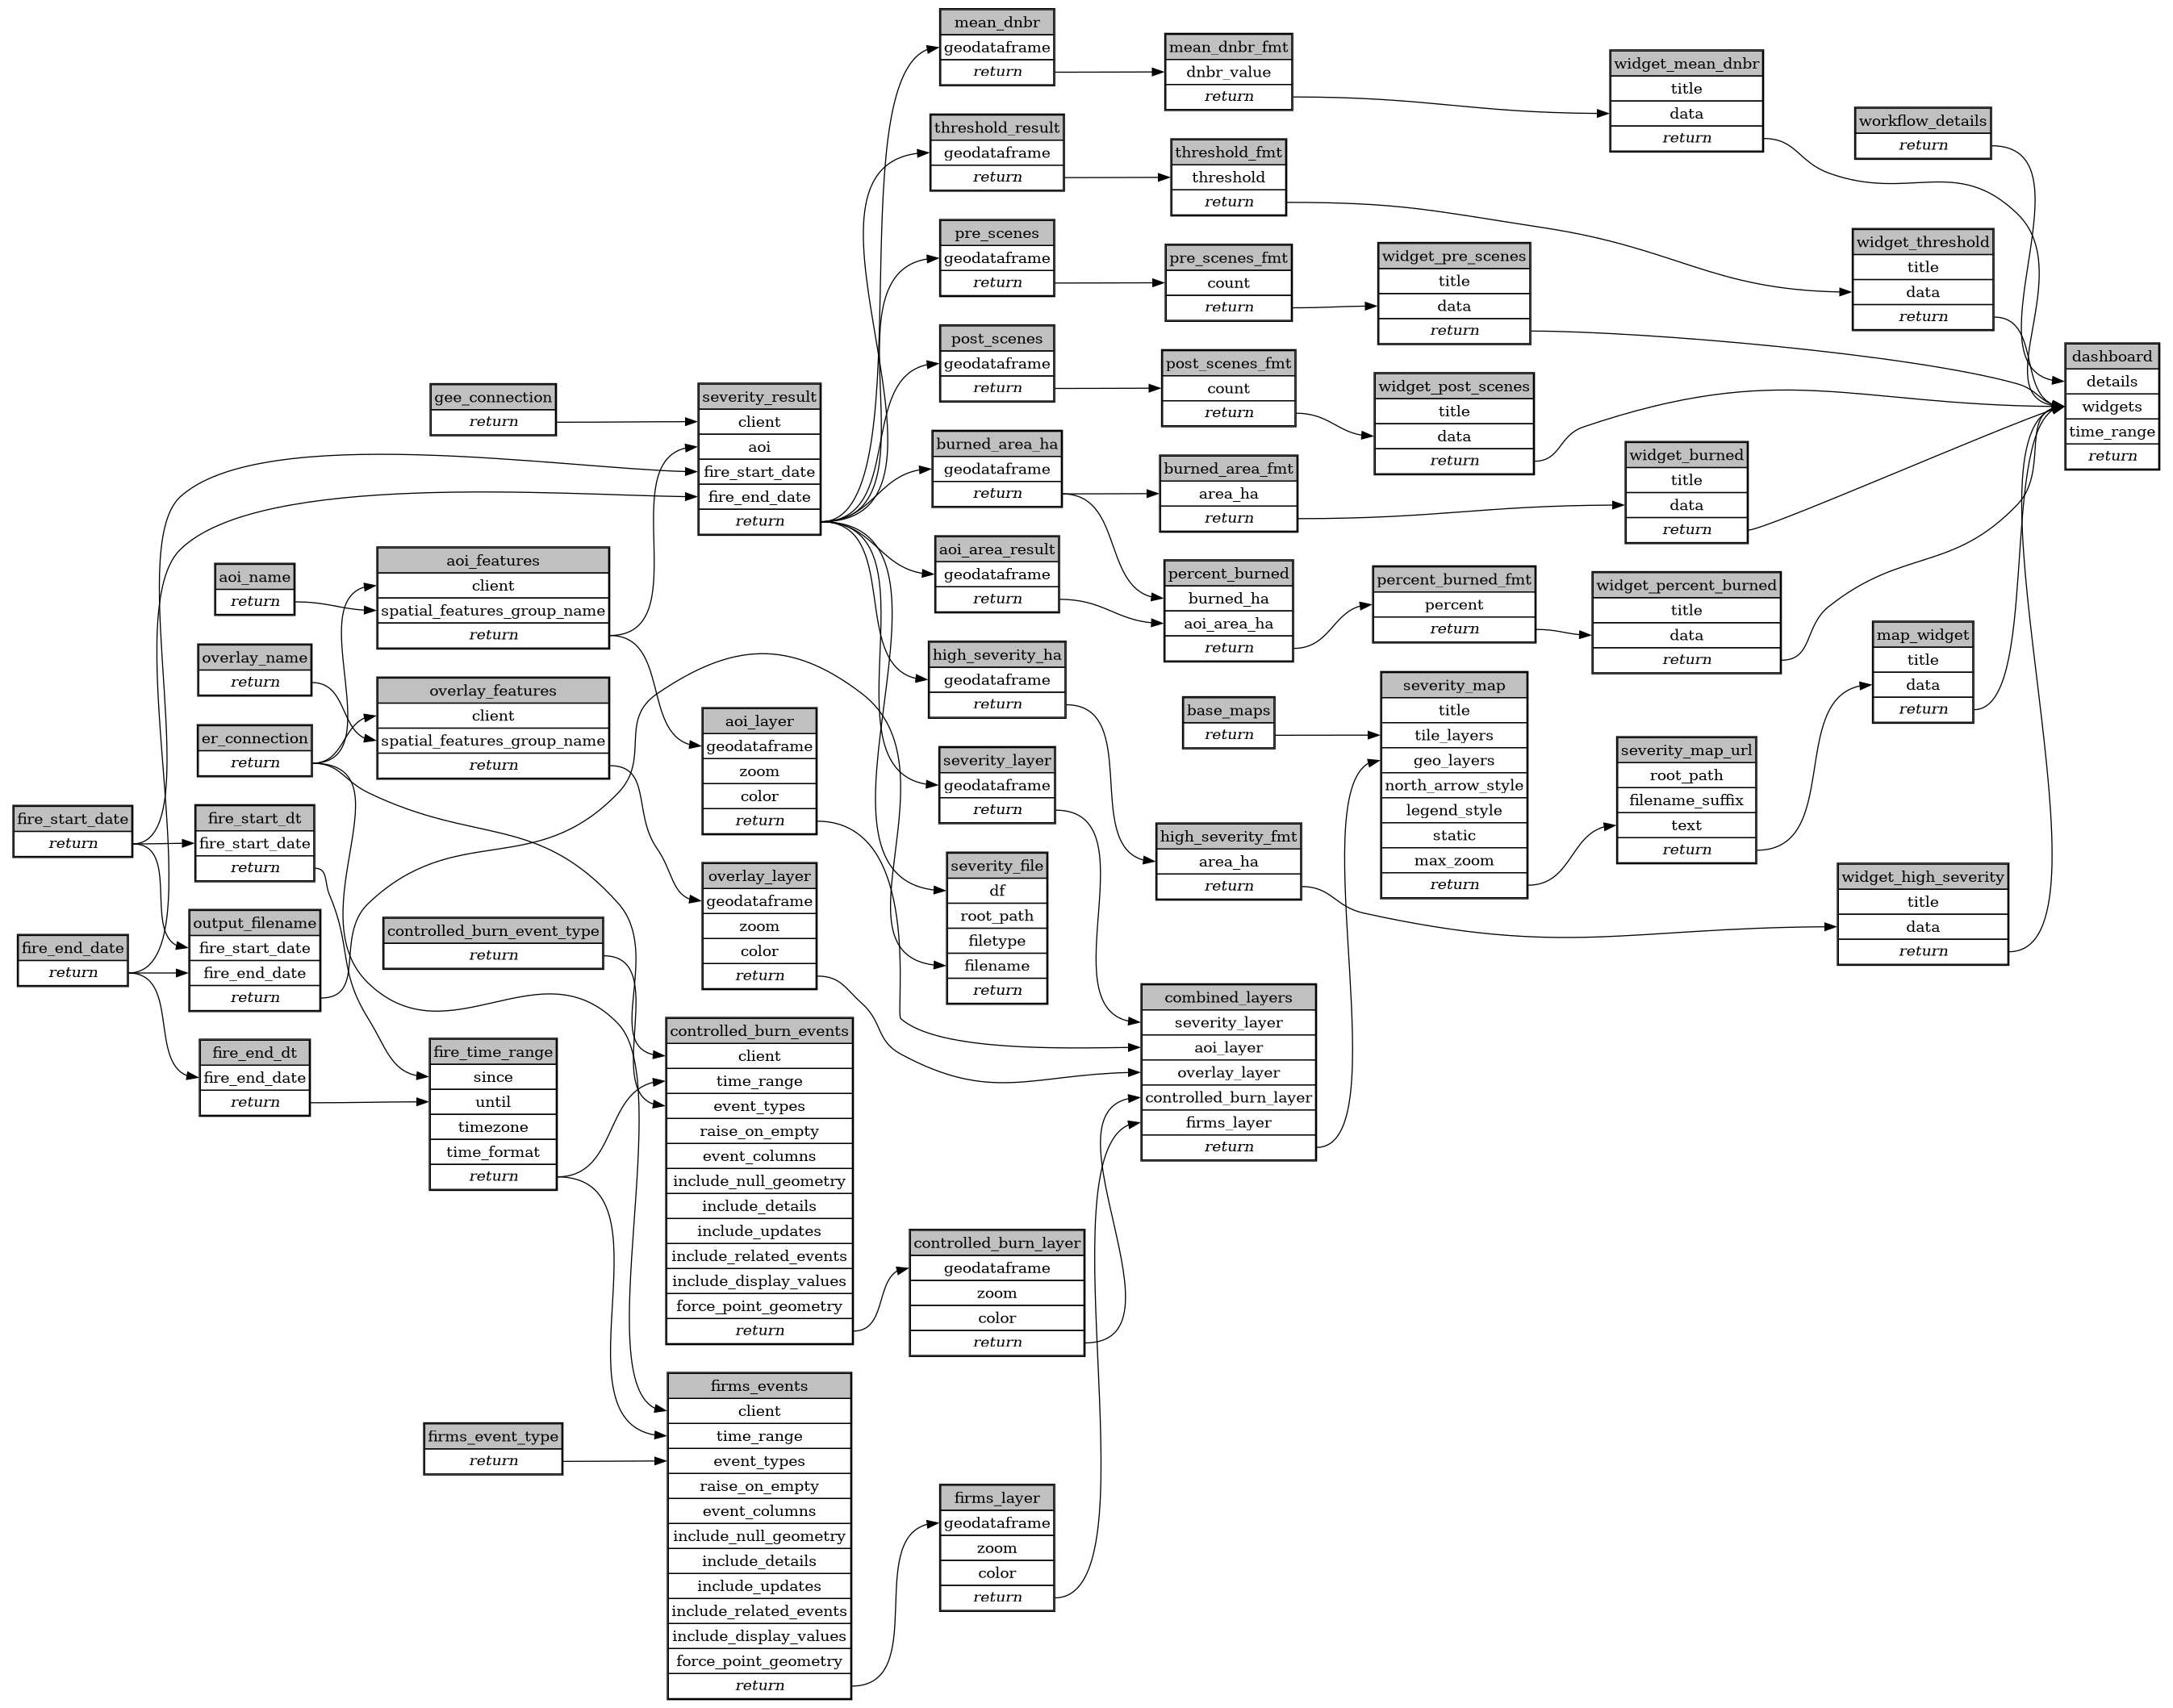
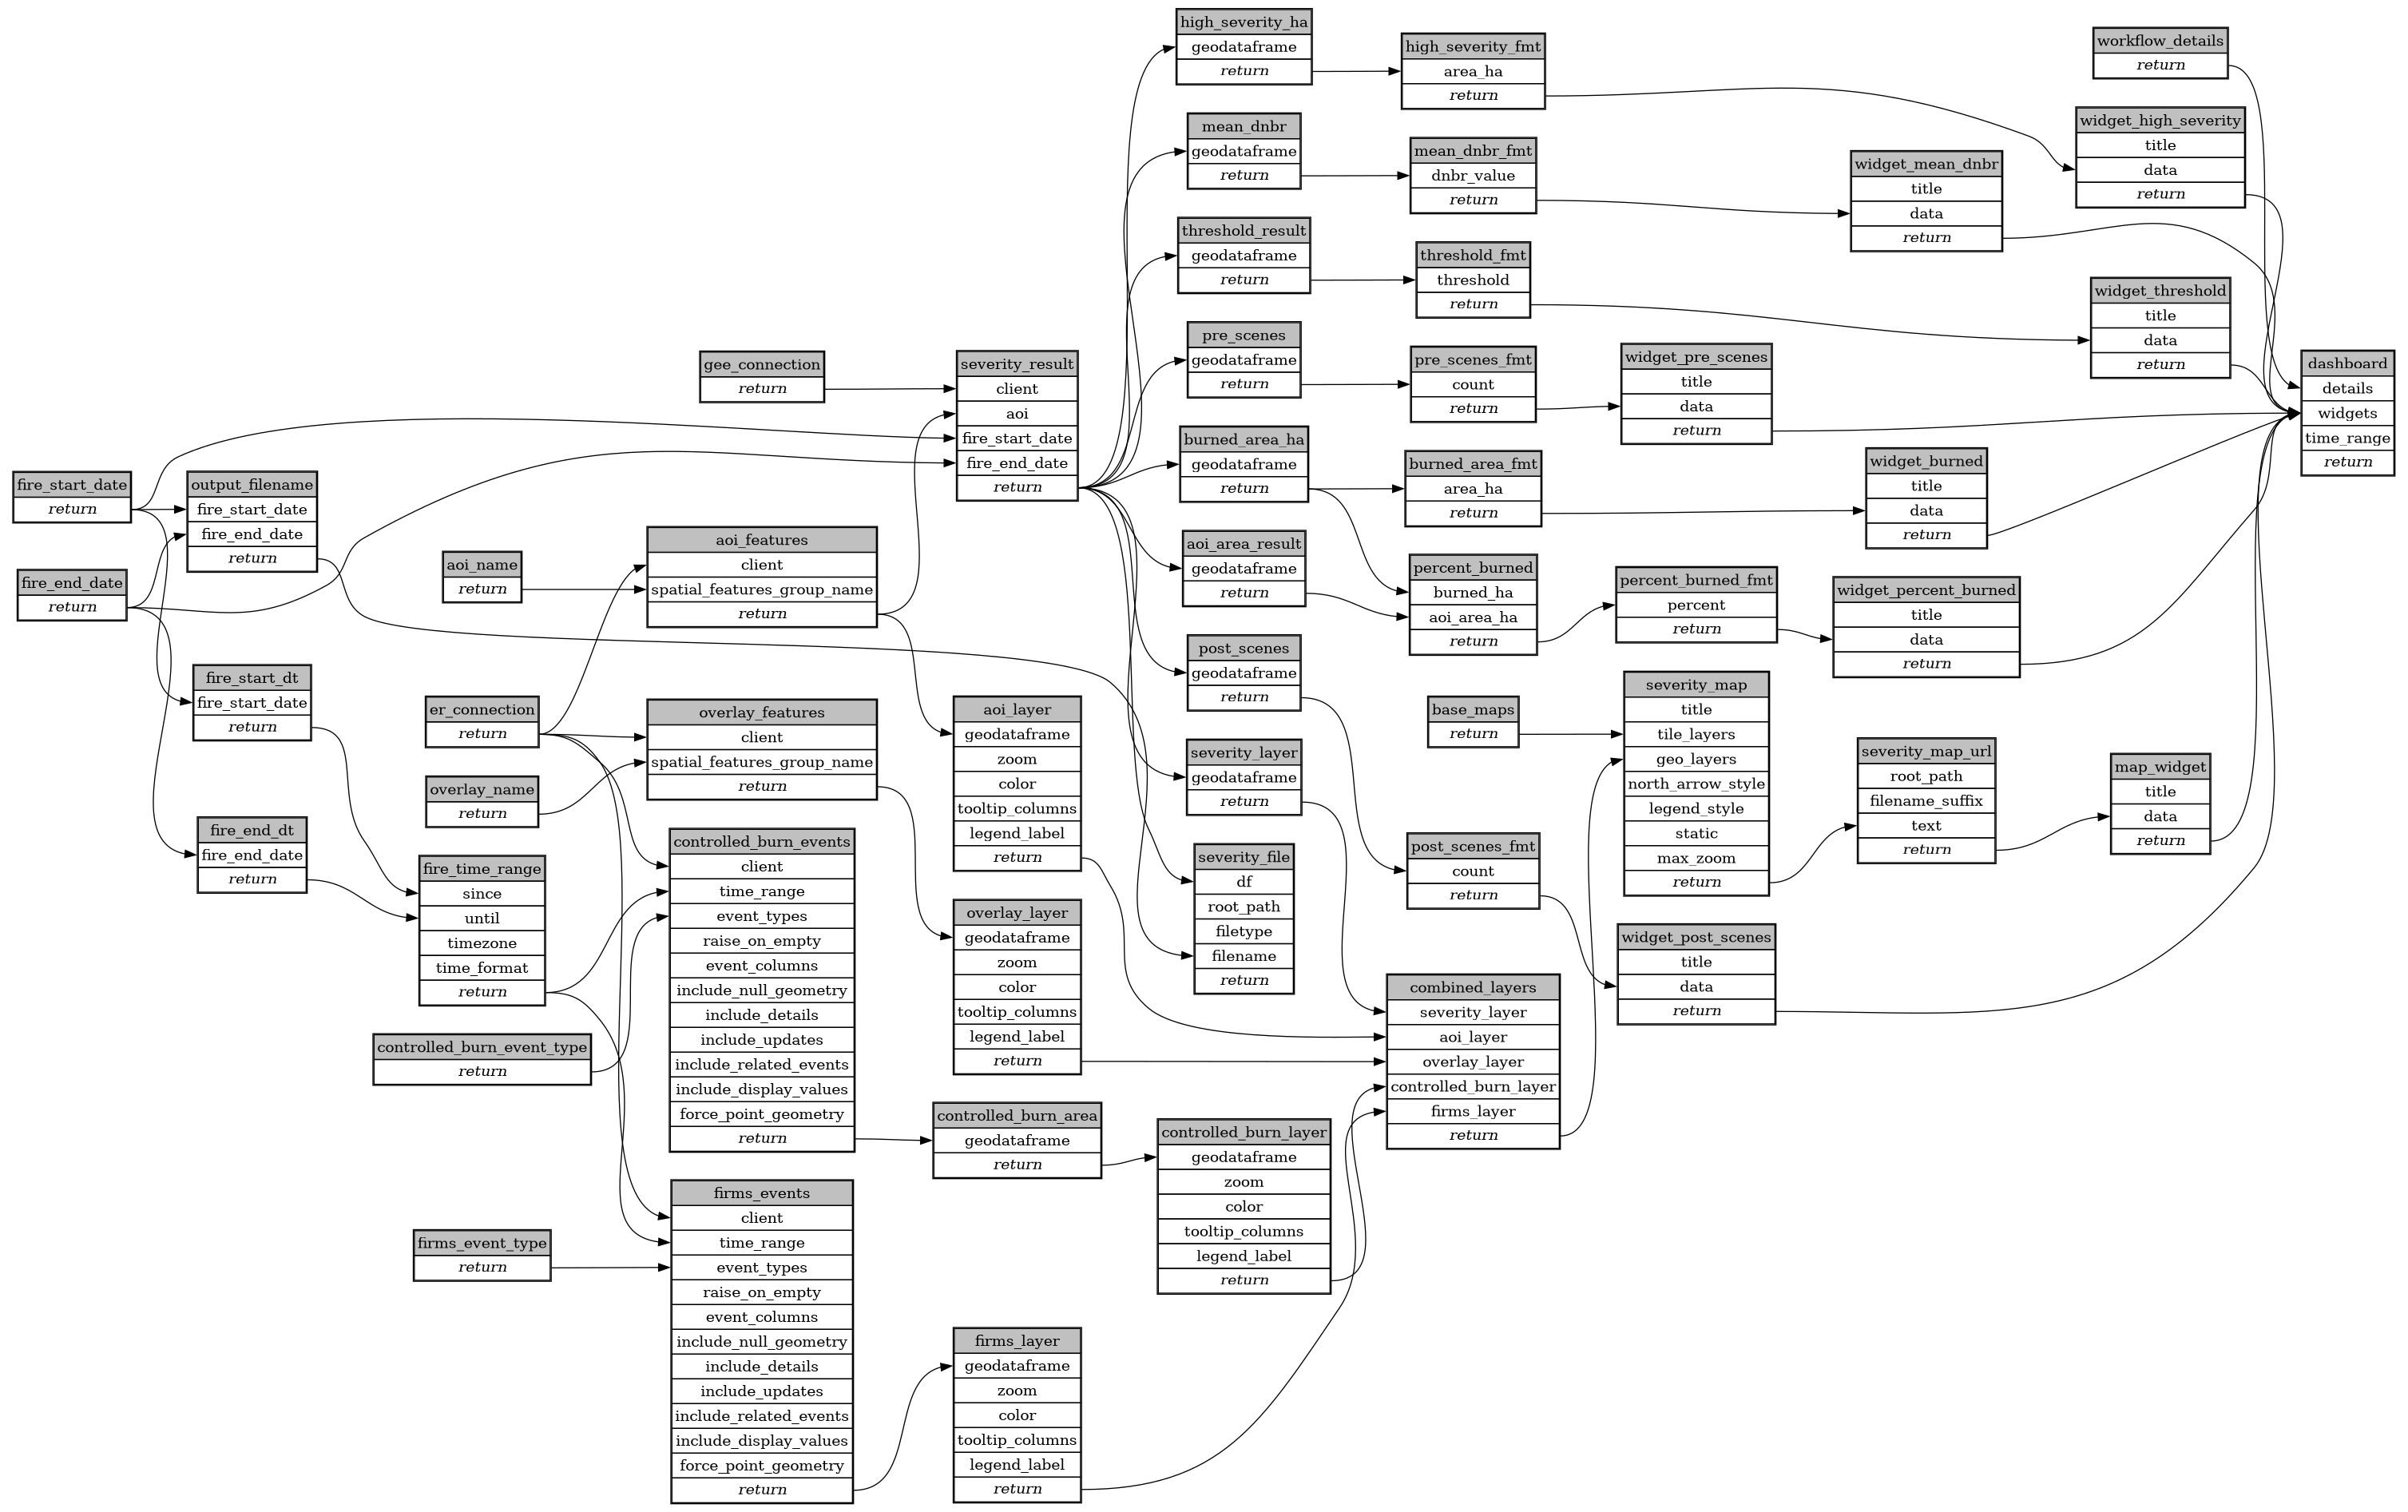
Add tooltips + shared legend for ER overlays; fix AOI/overlay colour clash; hectares everywhere (v3.1.0)
Controlled Burn and FIRMS layers now show title/time (and area_ha for the
burn polygons) on hover, and get a swatch in the same shared legend as the
severity classes. AOI boundary and the free-text overlay were both orange
(#FF8C00) and indistinguishable on the map; AOI is now black.

format_area_ha no longer switches to km²/m² by magnitude - every area on
the dashboard and in tooltips is hectares, consistently rounded.

Changed region(s): [[0.0, 0.0, 0.9358, 0.9974], [0.7174, 0.0, 0.9981, 0.3117]]

diff --git a/ecoscope-workflows-dnbr-burn-severity-workflow/dnbr-severity-tasks/dnbr_severity_tasks/__init__.py b/ecoscope-workflows-dnbr-burn-severity-workflow/dnbr-severity-tasks/dnbr_severity_tasks/__init__.py
@@ -557,7 +557,7 @@ def compute_dnbr_severity(
     gdf["DELTA_MIRBI"] = gdf["DELTA_MIRBI"].fillna(0.0)
     gdf["confidence"] = gdf["DELTA_MIRBI"].apply(lambda v: "confirmed" if v > 0 else "probable")
 
-    gdf["area_ha"] = gdf.to_crs(gdf.estimate_utm_crs()).geometry.area / 10_000.0
+    gdf["area_ha"] = (gdf.to_crs(gdf.estimate_utm_crs()).geometry.area / 10_000.0).round(1)
 
     # Run metadata (stored per row so stat tasks can read it back).
     gdf["satellite"]        = satellite
@@ -623,15 +623,26 @@ def create_styled_overlay_layer(
         str,
         Field(default="#FF8C00", description="Hex colour for this layer's lines/outlines/points."),
     ] = "#FF8C00",
+    tooltip_columns: Annotated[
+        list[str],
+        Field(default=[], description="Columns to show in the map tooltip when hovering a feature."),
+    ] = [],
+    legend_label: Annotated[
+        str | None,
+        Field(default=None, description="If set, adds a single-colour legend entry with this label."),
+    ] = None,
 ) -> Any:
     """
     Overlay layer for ER spatial features (AOI boundary, roads, fencelines, etc.) or
     ER events (controlled burns, FIRMS detections).
 
-    Splits by geometry type so lonboard never receives mixed types.
+    Splits by geometry type so lonboard never receives mixed types. The legend entry
+    (if any) is attached to only the first non-empty sub-layer, so a mixed-geometry
+    input still produces one legend swatch, not one per geometry type.
     """
     from ecoscope.platform.tasks.results._ecomap import (
         LayerDefinition,
+        LegendDefinition,
         PointLayerStyle,
         PolygonLayerStyle,
         PolylineLayerStyle,
@@ -641,14 +652,24 @@ def create_styled_overlay_layer(
     geom_col = gdf.geometry.geom_type
     width = 2.0
     layers = []
+    legend = LegendDefinition(labels=[legend_label], colors=[color]) if legend_label else None
+
+    def _next_legend():
+        # Attach the legend to only the first sub-layer that gets built.
+        nonlocal legend
+        out, legend = legend, None
+        return out
+
+    def _cols(g):
+        return [c for c in tooltip_columns if c in g.columns]
 
     line_gdf = gdf[geom_col.isin({"LineString", "MultiLineString"})].copy()
     if not line_gdf.empty:
         layers.append(LayerDefinition(
             geodataframe=line_gdf,
             layer_style=PolylineLayerStyle(get_color=color, get_width=width, width_units="pixels", cap_rounded=True),
-            legend=None,
-            tooltip_columns=[],
+            legend=_next_legend(),
+            tooltip_columns=_cols(line_gdf),
             zoom=zoom,
         ))
 
@@ -660,8 +681,8 @@ def create_styled_overlay_layer(
                 filled=False, stroked=True,
                 get_line_color=color, get_line_width=width, line_width_units="pixels",
             ),
-            legend=None,
-            tooltip_columns=[],
+            legend=_next_legend(),
+            tooltip_columns=_cols(polygon_gdf),
             zoom=zoom,
         ))
 
@@ -670,12 +691,32 @@ def create_styled_overlay_layer(
         layers.append(LayerDefinition(
             geodataframe=point_gdf,
             layer_style=PointLayerStyle(get_fill_color=color, get_radius=5, radius_units="pixels"),
-            legend=None,
-            tooltip_columns=[],
+            legend=_next_legend(),
+            tooltip_columns=_cols(point_gdf),
             zoom=zoom,
         ))
 
     return layers
+
+
+@register(tags=["fire", "overlay"])
+def add_polygon_area_ha(geodataframe: _GDF) -> _GDF:
+    """
+    Add an `area_ha` column (rounded to 1 decimal) for polygon/multipolygon rows —
+    e.g. the footprint of a recorded controlled burn. Non-polygon rows (points, lines)
+    get NaN; area is not a meaningful concept for a point detection.
+    """
+    gdf = geodataframe.copy()
+    if gdf.empty:
+        gdf["area_ha"] = []
+        return gdf
+    gdf["area_ha"] = np.nan
+    is_poly = gdf.geometry.geom_type.isin({"Polygon", "MultiPolygon"})
+    if is_poly.any():
+        poly_gdf = gdf.loc[is_poly]
+        utm = poly_gdf.to_crs(poly_gdf.estimate_utm_crs())
+        gdf.loc[is_poly, "area_ha"] = (utm.geometry.area / 10_000.0).round(1).values
+    return gdf
 
 
 @register(tags=["fire"])
@@ -822,12 +863,11 @@ def format_dnbr_threshold(
 def format_area_ha(
     area_ha: Annotated[float, Field(description="Area in hectares to format for display.")],
 ) -> str:
-    """Format an area value as a human-readable string (m², ha, or km²)."""
+    """Format an area value for display — always hectares, never km²/m², so every
+    area shown on the dashboard uses one consistent unit."""
     if area_ha <= 0:
         return "0 ha"
-    elif area_ha >= 10_000:
-        return f"{area_ha / 10_000:.1f} km²"
-    elif area_ha >= 1:
+    elif area_ha >= 100:
         return f"{int(round(area_ha)):,} ha"
     else:
-        return f"{int(round(area_ha * 10_000)):,} m²"
+        return f"{area_ha:.1f} ha"

diff --git a/ecoscope-workflows-dnbr-burn-severity-workflow/ecoscope_workflows_dnbr_burn_severity_workflow/dags/run_sequential.py b/ecoscope-workflows-dnbr-burn-severity-workflow/ecoscope_workflows_dnbr_burn_severity_workflow/dags/run_sequential.py
@@ -2,6 +2,7 @@
 import os
 from typing import Any
 
+from dnbr_severity_tasks import add_polygon_area_ha as add_polygon_area_ha
 from dnbr_severity_tasks import combine_severity_layers as combine_severity_layers
 from dnbr_severity_tasks import compute_dnbr_severity as compute_dnbr_severity
 from dnbr_severity_tasks import count_burned_area_ha as count_burned_area_ha
@@ -351,6 +352,26 @@ def main(params: dict[str, Any], validate_params_schema: bool = True):
         .call()
     )
 
+    controlled_burn_area = (
+        task(add_polygon_area_ha)
+        .validate()
+        .set_task_instance_id("controlled_burn_area")
+        .handle_errors()
+        .with_tracing()
+        .skipif(
+            conditions=[
+                any_dependency_skipped,
+                any_is_empty_df,
+            ],
+            unpack_depth=1,
+        )
+        .partial(
+            geodataframe=controlled_burn_events,
+            **(params.get("controlled_burn_area") or {}),
+        )
+        .call()
+    )
+
     controlled_burn_layer = (
         task(create_styled_overlay_layer)
         .validate()
@@ -365,9 +386,11 @@ def main(params: dict[str, Any], validate_params_schema: bool = True):
             unpack_depth=1,
         )
         .partial(
-            geodataframe=controlled_burn_events,
+            geodataframe=controlled_burn_area,
             zoom=False,
             color="#1E90FF",
+            tooltip_columns=["title", "time", "area_ha"],
+            legend_label="Controlled Burn",
             **(params.get("controlled_burn_layer") or {}),
         )
         .call()
@@ -436,6 +459,8 @@ def main(params: dict[str, Any], validate_params_schema: bool = True):
             geodataframe=firms_events,
             zoom=False,
             color="#FF00FF",
+            tooltip_columns=["title", "time"],
+            legend_label="FIRMS Detection",
             **(params.get("firms_layer") or {}),
         )
         .call()
@@ -497,7 +522,9 @@ def main(params: dict[str, Any], validate_params_schema: bool = True):
         .partial(
             geodataframe=aoi_features,
             zoom=True,
-            color="#FF8C00",
+            color="#000000",
+            tooltip_columns=[],
+            legend_label=None,
             **(params.get("aoi_layer") or {}),
         )
         .call()
@@ -520,6 +547,8 @@ def main(params: dict[str, Any], validate_params_schema: bool = True):
             geodataframe=overlay_features,
             zoom=False,
             color="#FF8C00",
+            tooltip_columns=[],
+            legend_label=None,
             **(params.get("overlay_layer") or {}),
         )
         .call()
@@ -566,7 +595,7 @@ def main(params: dict[str, Any], validate_params_schema: bool = True):
             tile_layers=base_maps,
             geo_layers=combined_layers,
             north_arrow_style={"placement": "top-left"},
-            legend_style={"title": "Burn Severity", "placement": "bottom-right"},
+            legend_style={"title": "Legend", "placement": "bottom-right"},
             static=False,
             max_zoom=20,
             **(params.get("severity_map") or {}),

diff --git a/ecoscope-workflows-dnbr-burn-severity-workflow/ecoscope_workflows_dnbr_burn_severity_workflow/dags/run_sequential_mock_io.py b/ecoscope-workflows-dnbr-burn-severity-workflow/ecoscope_workflows_dnbr_burn_severity_workflow/dags/run_sequential_mock_io.py
@@ -52,6 +52,7 @@ get_events = create_func_magicmock(  # 🧪
     anchor="ecoscope.platform.tasks.io",  # 🧪
     func_name="get_events",  # 🧪
 )  # 🧪
+from dnbr_severity_tasks import add_polygon_area_ha as add_polygon_area_ha
 from dnbr_severity_tasks import (
     create_styled_overlay_layer as create_styled_overlay_layer,
 )
@@ -379,6 +380,26 @@ def main(params: dict[str, Any], validate_params_schema: bool = True):
         .call()
     )
 
+    controlled_burn_area = (
+        task(add_polygon_area_ha)
+        .validate()
+        .set_task_instance_id("controlled_burn_area")
+        .handle_errors()
+        .with_tracing()
+        .skipif(
+            conditions=[
+                any_dependency_skipped,
+                any_is_empty_df,
+            ],
+            unpack_depth=1,
+        )
+        .partial(
+            geodataframe=controlled_burn_events,
+            **(params.get("controlled_burn_area") or {}),
+        )
+        .call()
+    )
+
     controlled_burn_layer = (
         task(create_styled_overlay_layer)
         .validate()
@@ -393,9 +414,11 @@ def main(params: dict[str, Any], validate_params_schema: bool = True):
             unpack_depth=1,
         )
         .partial(
-            geodataframe=controlled_burn_events,
+            geodataframe=controlled_burn_area,
             zoom=False,
             color="#1E90FF",
+            tooltip_columns=["title", "time", "area_ha"],
+            legend_label="Controlled Burn",
             **(params.get("controlled_burn_layer") or {}),
         )
         .call()
@@ -464,6 +487,8 @@ def main(params: dict[str, Any], validate_params_schema: bool = True):
             geodataframe=firms_events,
             zoom=False,
             color="#FF00FF",
+            tooltip_columns=["title", "time"],
+            legend_label="FIRMS Detection",
             **(params.get("firms_layer") or {}),
         )
         .call()
@@ -525,7 +550,9 @@ def main(params: dict[str, Any], validate_params_schema: bool = True):
         .partial(
             geodataframe=aoi_features,
             zoom=True,
-            color="#FF8C00",
+            color="#000000",
+            tooltip_columns=[],
+            legend_label=None,
             **(params.get("aoi_layer") or {}),
         )
         .call()
@@ -548,6 +575,8 @@ def main(params: dict[str, Any], validate_params_schema: bool = True):
             geodataframe=overlay_features,
             zoom=False,
             color="#FF8C00",
+            tooltip_columns=[],
+            legend_label=None,
             **(params.get("overlay_layer") or {}),
         )
         .call()
@@ -594,7 +623,7 @@ def main(params: dict[str, Any], validate_params_schema: bool = True):
             tile_layers=base_maps,
             geo_layers=combined_layers,
             north_arrow_style={"placement": "top-left"},
-            legend_style={"title": "Burn Severity", "placement": "bottom-right"},
+            legend_style={"title": "Legend", "placement": "bottom-right"},
             static=False,
             max_zoom=20,
             **(params.get("severity_map") or {}),

diff --git a/CLAUDE.md b/CLAUDE.md
@@ -75,6 +75,38 @@ also accepts optional `controlled_burn_layer`/`firms_layer`) →
 stat chain: burned_area → high_severity → (aoi_area → percent_burned) → threshold → mean_dnbr → pre_scenes → post_scenes →
 `gather_dashboard` (`time_range: ~`).
 
+### Tooltips, legend, area, and consistent hectares — v3.1.0, added 2026-07-02
+
+- **Tooltips on the ER event overlays.** `create_styled_overlay_layer` gained
+  `tooltip_columns` and `legend_label` params (both explicitly bound to `[]`/`~` for
+  `aoi_layer`/`overlay_layer` so they stay hidden — same discipline as every other
+  param added to this task). Controlled Burn shows title/time/area_ha on hover; FIRMS
+  shows title/time (points have no area).
+- **Area for controlled-burn polygons.** New task `add_polygon_area_ha` (UTM
+  reprojection, same technique `compute_dnbr_severity` already uses for the severity
+  polygons) adds `area_ha` for polygon/multipolygon rows only — NaN for points/lines,
+  since area isn't a meaningful concept for a FIRMS point detection. Wired as its own
+  step between `get_events` and `create_styled_overlay_layer` for the controlled-burn
+  branch only.
+- **One shared legend, not per-layer boxes.** Confirmed from `draw_ecomap` source:
+  every `LayerDefinition.legend` in `geo_layers` gets flattened into a single
+  `m.add_legend()` call — so a legend entry added to `controlled_burn_layer`/
+  `firms_layer` merges into the same panel as the severity classes, not a second box.
+  `legend_label` is attached to only the first non-empty geometry-type sub-layer a
+  gdf produces, so a mixed-geometry input still yields one swatch, not one per type.
+  Renamed the shared `legend_style.title` from "Burn Severity" to "Legend" since the
+  panel can now contain non-severity entries too.
+- **AOI boundary vs. free-text overlay were both `#FF8C00`** — indistinguishable on
+  the map when both were in use. AOI Boundary is now `#000000` (black, standard
+  cartographic convention for a boundary outline); Overlay Layer stays `#FF8C00`
+  (unchanged, matches pre-existing behaviour for anyone already using that field).
+- **All areas now consistently hectares.** `format_area_ha` previously switched units
+  by magnitude (m² below 1 ha, km² above 10,000 ha) — removed; it's `ha` always
+  (1 decimal below 100 ha, whole numbers at/above). Per-polygon `area_ha` on the
+  severity result is now rounded to 1 decimal at the source in `compute_dnbr_severity`
+  rather than left as a raw float, so both the map tooltip and the stat widgets that
+  sum it show clean, consistent numbers.
+
 ### Form simplification — v3.0.0, added 2026-07-02
 
 v2.0.0 accidentally exposed a wall of technical fields alongside the two event-type

diff --git a/ecoscope-workflows-dnbr-burn-severity-workflow/README.md b/ecoscope-workflows-dnbr-burn-severity-workflow/README.md
@@ -5,8 +5,8 @@
 
 ```yaml
 # fingerprint:
-artifacts_sha256_basic: 5d0f13741d863e2eb48e8fdfcb61a5c84826c769bb1408a35cfa44d78784a6f3
-artifacts_sha256_strict: f419ec6a218394959592fa6b26c672c41398facaecb29d14d9c5e099d913640c
+artifacts_sha256_basic: be89f5366f9bca452c4cdb0b9e0bc38676788347fafe8b143cc320652f296d09
+artifacts_sha256_strict: adfa6a2274c07b6bee33d5936b85fecb1899110ae5eac2435c9d5ccf410a2d40
 installed_requirements:
 - channel: https://repo.prefix.dev/ecoscope-workflows/
   name: ecoscope-platform
@@ -15,7 +15,7 @@ installed_requirements:
   name: pydeck
   version: {version: ==0.9.2}
 params_sha256: 7e8c0c92aa85c85c537b8b8ecf008a17394942508430aa937b691ace530d0ac4
-spec_sha256: f3b9199ca67cdcdf8b5818f5129dcef140227e71f7e89ff2a415b48315d0aff0
+spec_sha256: 2cb50cb16339de3ae7e1d06404a093556c619301ed8882092901abe273722205
 
 ```
 